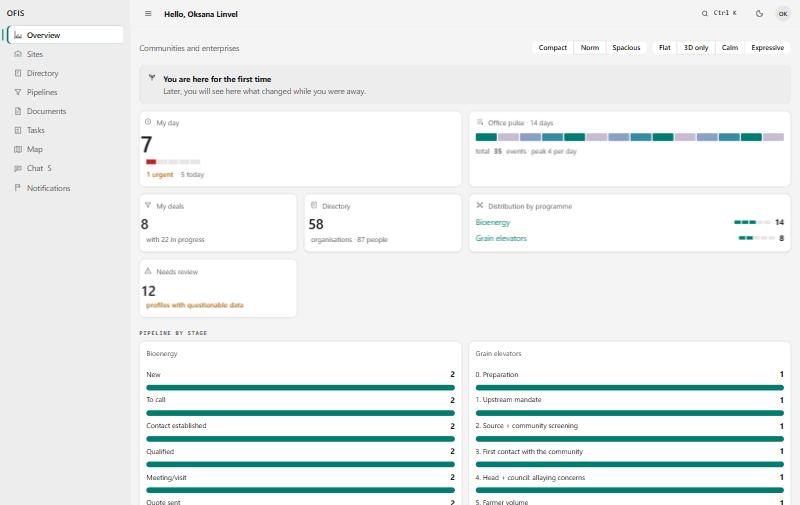
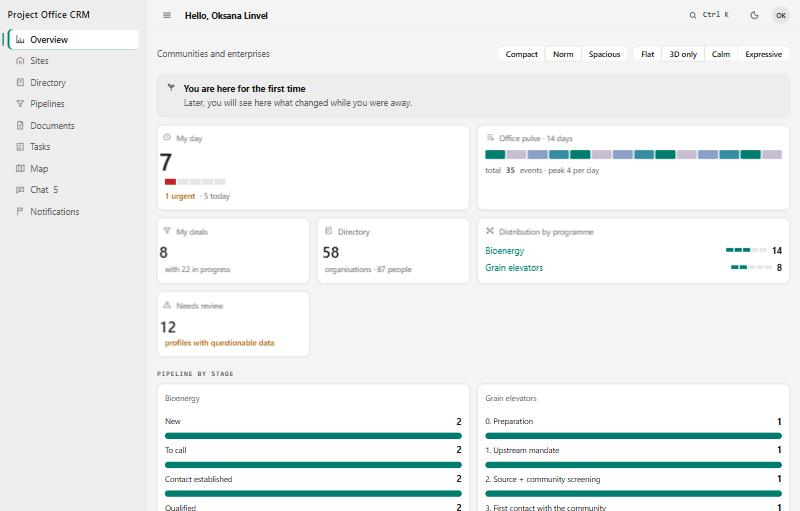
Rename the product to Project Office CRM
User-visible name in the UI brand, page titles (EN catalogue and Ukrainian
source strings, «CRM проєктного офісу»), README, DEMO, pyproject, API title,
User-Agent and the licence link in the footer (repository renamed to
project-office-crm). Refreshed the README screenshot and fixed a stale test
path in the i18n docstring. Python packages, the database file, env vars
(OFIS_*), cookie/storage prefixes and the chat room code stay unchanged.

diff --git a/templates_v2/base.html b/templates_v2/base.html
@@ -6,7 +6,7 @@
 <meta name="csrf-token" content="{{ csrf_token }}">
 <meta name="robots" content="noindex, nofollow">
 <meta name="htmx-config" content='{"includeIndicatorStyles": false, "allowEval": false, "inlineScriptNonce": "{{ csp_nonce }}"}'>
-<title>{% block title %}{{ _("ОФІС") }}{% endblock %}</title>
+<title>{% block title %}{{ _("CRM проєктного офісу") }}{% endblock %}</title>
 <link rel="icon" href="/static_v2/favicon.svg" type="image/svg+xml">
 
 {# Design library first (tokens → core → components → motion/depth), then the
@@ -42,7 +42,7 @@
 {% if user %}
 <div class="kk-app" data-rejka="{{ 'vidkryto' if rejka_vidkryta else 'zakryto' }}">
   <aside class="kk-rejka" id="rejka">
-    <a class="brand brend-rejka" href="/">{{ _("ОФІС") }}</a>
+    <a class="brand brend-rejka" href="/">{{ _("CRM проєктного офісу") }}</a>
     <nav class="kk-nav" aria-label="{{ _('Розділи') }}">
       {% set rozdily = [
         ('/', _('Огляд'), 'i-kpi'),
@@ -102,13 +102,13 @@
 
   <main class="kk-telo" id="vmist">
 {% block vmist %}{% endblock %}
-<p class="avtorstvo">© 2026 Mykhailo Zvir · <a href="https://github.com/zvirmykhailo1987-cyber/ofis/blob/main/LICENSE" rel="license">MIT License</a></p>
+<p class="avtorstvo">© 2026 Mykhailo Zvir · <a href="https://github.com/zvirmykhailo1987-cyber/project-office-crm/blob/main/LICENSE" rel="license">MIT License</a></p>
   </main>
 </div>
 {% else %}
 <main class="kk-telo gost-telo">
 {% block body_gost %}{{ self.vmist() }}{% endblock %}
-<p class="avtorstvo">© 2026 Mykhailo Zvir · <a href="https://github.com/zvirmykhailo1987-cyber/ofis/blob/main/LICENSE" rel="license">MIT License</a></p>
+<p class="avtorstvo">© 2026 Mykhailo Zvir · <a href="https://github.com/zvirmykhailo1987-cyber/project-office-crm/blob/main/LICENSE" rel="license">MIT License</a></p>
 </main>
 {% endif %}
 

diff --git a/templates_v2/login.html b/templates_v2/login.html
@@ -1,11 +1,11 @@
 {% extends "base.html" %}
-{% block title %}{{ _("Вхід — ОФІС") }}{% endblock %}
+{% block title %}{{ _("Вхід — CRM проєктного офісу") }}{% endblock %}
 {% block body_gost %}
 {# Guest layout: no navigation rail and no list of accounts — the page reveals
    nothing about who uses the system. #}
 <div class="vhid-shapka">
-  <b class="vhid-brend">{{ _("ОФІС") }}</b>
-  <span class="dim">{{ _("Платформа Проєктного офісу") }}</span>
+  <b class="vhid-brend">{{ _("CRM проєктного офісу") }}</b>
+  <span class="dim">{{ _("Біогаз та елеватори: обʼєкти, угоди, документи") }}</span>
 </div>
 
 {% if error %}

diff --git a/templates_v2/karta/biogaz.html b/templates_v2/karta/biogaz.html
@@ -1,5 +1,5 @@
 {% extends "karta/_karkas.html" %}
-{% block title %}{{ _("Карта біоенергетики — ОФІС") }}{% endblock %}
+{% block title %}{{ _("Карта біоенергетики — CRM проєктного офісу") }}{% endblock %}
 {% block zagolovok %}{{ _("Карта біоенергетики") }}{% endblock %}
 
 {% block filtry %}

diff --git a/templates_v2/voronky/board.html b/templates_v2/voronky/board.html
@@ -1,5 +1,5 @@
 {% extends "base.html" %}
-{% block title %}{{ _("Воронки — ОФІС") }}{% endblock %}
+{% block title %}{{ _("Воронки — CRM проєктного офісу") }}{% endblock %}
 {% block shapka %}{{ _("Воронка «") }}{{ prog.title }}»{% endblock %}
 {% block vmist %}
 {% from "_ava.html" import ava with context %}

diff --git a/templates_v2/karta/elevatory.html b/templates_v2/karta/elevatory.html
@@ -1,5 +1,5 @@
 {% extends "karta/_karkas.html" %}
-{% block title %}{{ _("Карта елеваторів — ОФІС") }}{% endblock %}
+{% block title %}{{ _("Карта елеваторів — CRM проєктного офісу") }}{% endblock %}
 {% block zagolovok %}{{ _("Карта елеваторів") }}{% endblock %}
 
 {% block filtry %}

diff --git a/templates_v2/dovidnyk/index.html b/templates_v2/dovidnyk/index.html
@@ -1,5 +1,5 @@
 {% extends "base.html" %}
-{% block title %}{{ _("Довідник контактів — ОФІС") }}{% endblock %}
+{% block title %}{{ _("Довідник контактів — CRM проєктного офісу") }}{% endblock %}
 {% block shapka %}{{ _("Довідник контактів") }}{% endblock %}
 {% block vmist %}
 

diff --git a/templates_v2/pomylka.html b/templates_v2/pomylka.html
@@ -1,5 +1,5 @@
 {% extends "base.html" %}
-{% block title %}{{ kod }} — {{ _("ОФІС") }}{% endblock %}
+{% block title %}{{ kod }} — {{ _("CRM проєктного офісу") }}{% endblock %}
 {% block shapka %}{{ _("Помилка") }} {{ kod }}{% endblock %}
 {% block vmist %}
 <section class="pomylka-ekran surf-panel" role="alert">

diff --git a/templates_v2/zavdannya/index.html b/templates_v2/zavdannya/index.html
@@ -1,5 +1,5 @@
 {% extends "base.html" %}
-{% block title %}{{ _("Завдання — ОФІС") }}{% endblock %}
+{% block title %}{{ _("Завдання — CRM проєктного офісу") }}{% endblock %}
 {% block shapka %}{{ _("Завдання") }}{% endblock %}
 {% block vmist %}
 {% from "_ava.html" import ava with context %}

diff --git a/templates_v2/strichka.html b/templates_v2/strichka.html
@@ -1,5 +1,5 @@
 {% extends "base.html" %}
-{% block title %}{{ _("Стрічка команди — ОФІС") }}{% endblock %}
+{% block title %}{{ _("Стрічка команди — CRM проєктного офісу") }}{% endblock %}
 {% block shapka %}{{ _("Що зараз робиться") }}{% endblock %}
 {% block vmist %}
 

diff --git a/templates_v2/ai/run.html b/templates_v2/ai/run.html
@@ -1,5 +1,5 @@
 {% extends "base.html" %}
-{% block title %}{{ _("Чернетка витягу — ОФІС") }}{% endblock %}
+{% block title %}{{ _("Чернетка витягу — CRM проєктного офісу") }}{% endblock %}
 {% block vmist %}
 <p class="k-krykhty"><a href="/ai">{{ _("← AI-витяг") }}</a></p>
 

diff --git a/templates_v2/dokumenty/nalashtuvannya.html b/templates_v2/dokumenty/nalashtuvannya.html
@@ -1,5 +1,5 @@
 {% extends "base.html" %}
-{% block title %}{{ _("Налаштування — ОФІС") }}{% endblock %}
+{% block title %}{{ _("Налаштування — CRM проєктного офісу") }}{% endblock %}
 {% block shapka %}{{ _("Налаштування офісу") }}{% endblock %}
 {% block vmist %}
 

diff --git a/templates_v2/dokumenty/lysty.html b/templates_v2/dokumenty/lysty.html
@@ -1,5 +1,5 @@
 {% extends "base.html" %}
-{% block title %}{{ _("Запити й листи — ОФІС") }}{% endblock %}
+{% block title %}{{ _("Запити й листи — CRM проєктного офісу") }}{% endblock %}
 {% block shapka %}{{ _("Запити й листи") }}{% endblock %}
 {% block vmist %}
 
